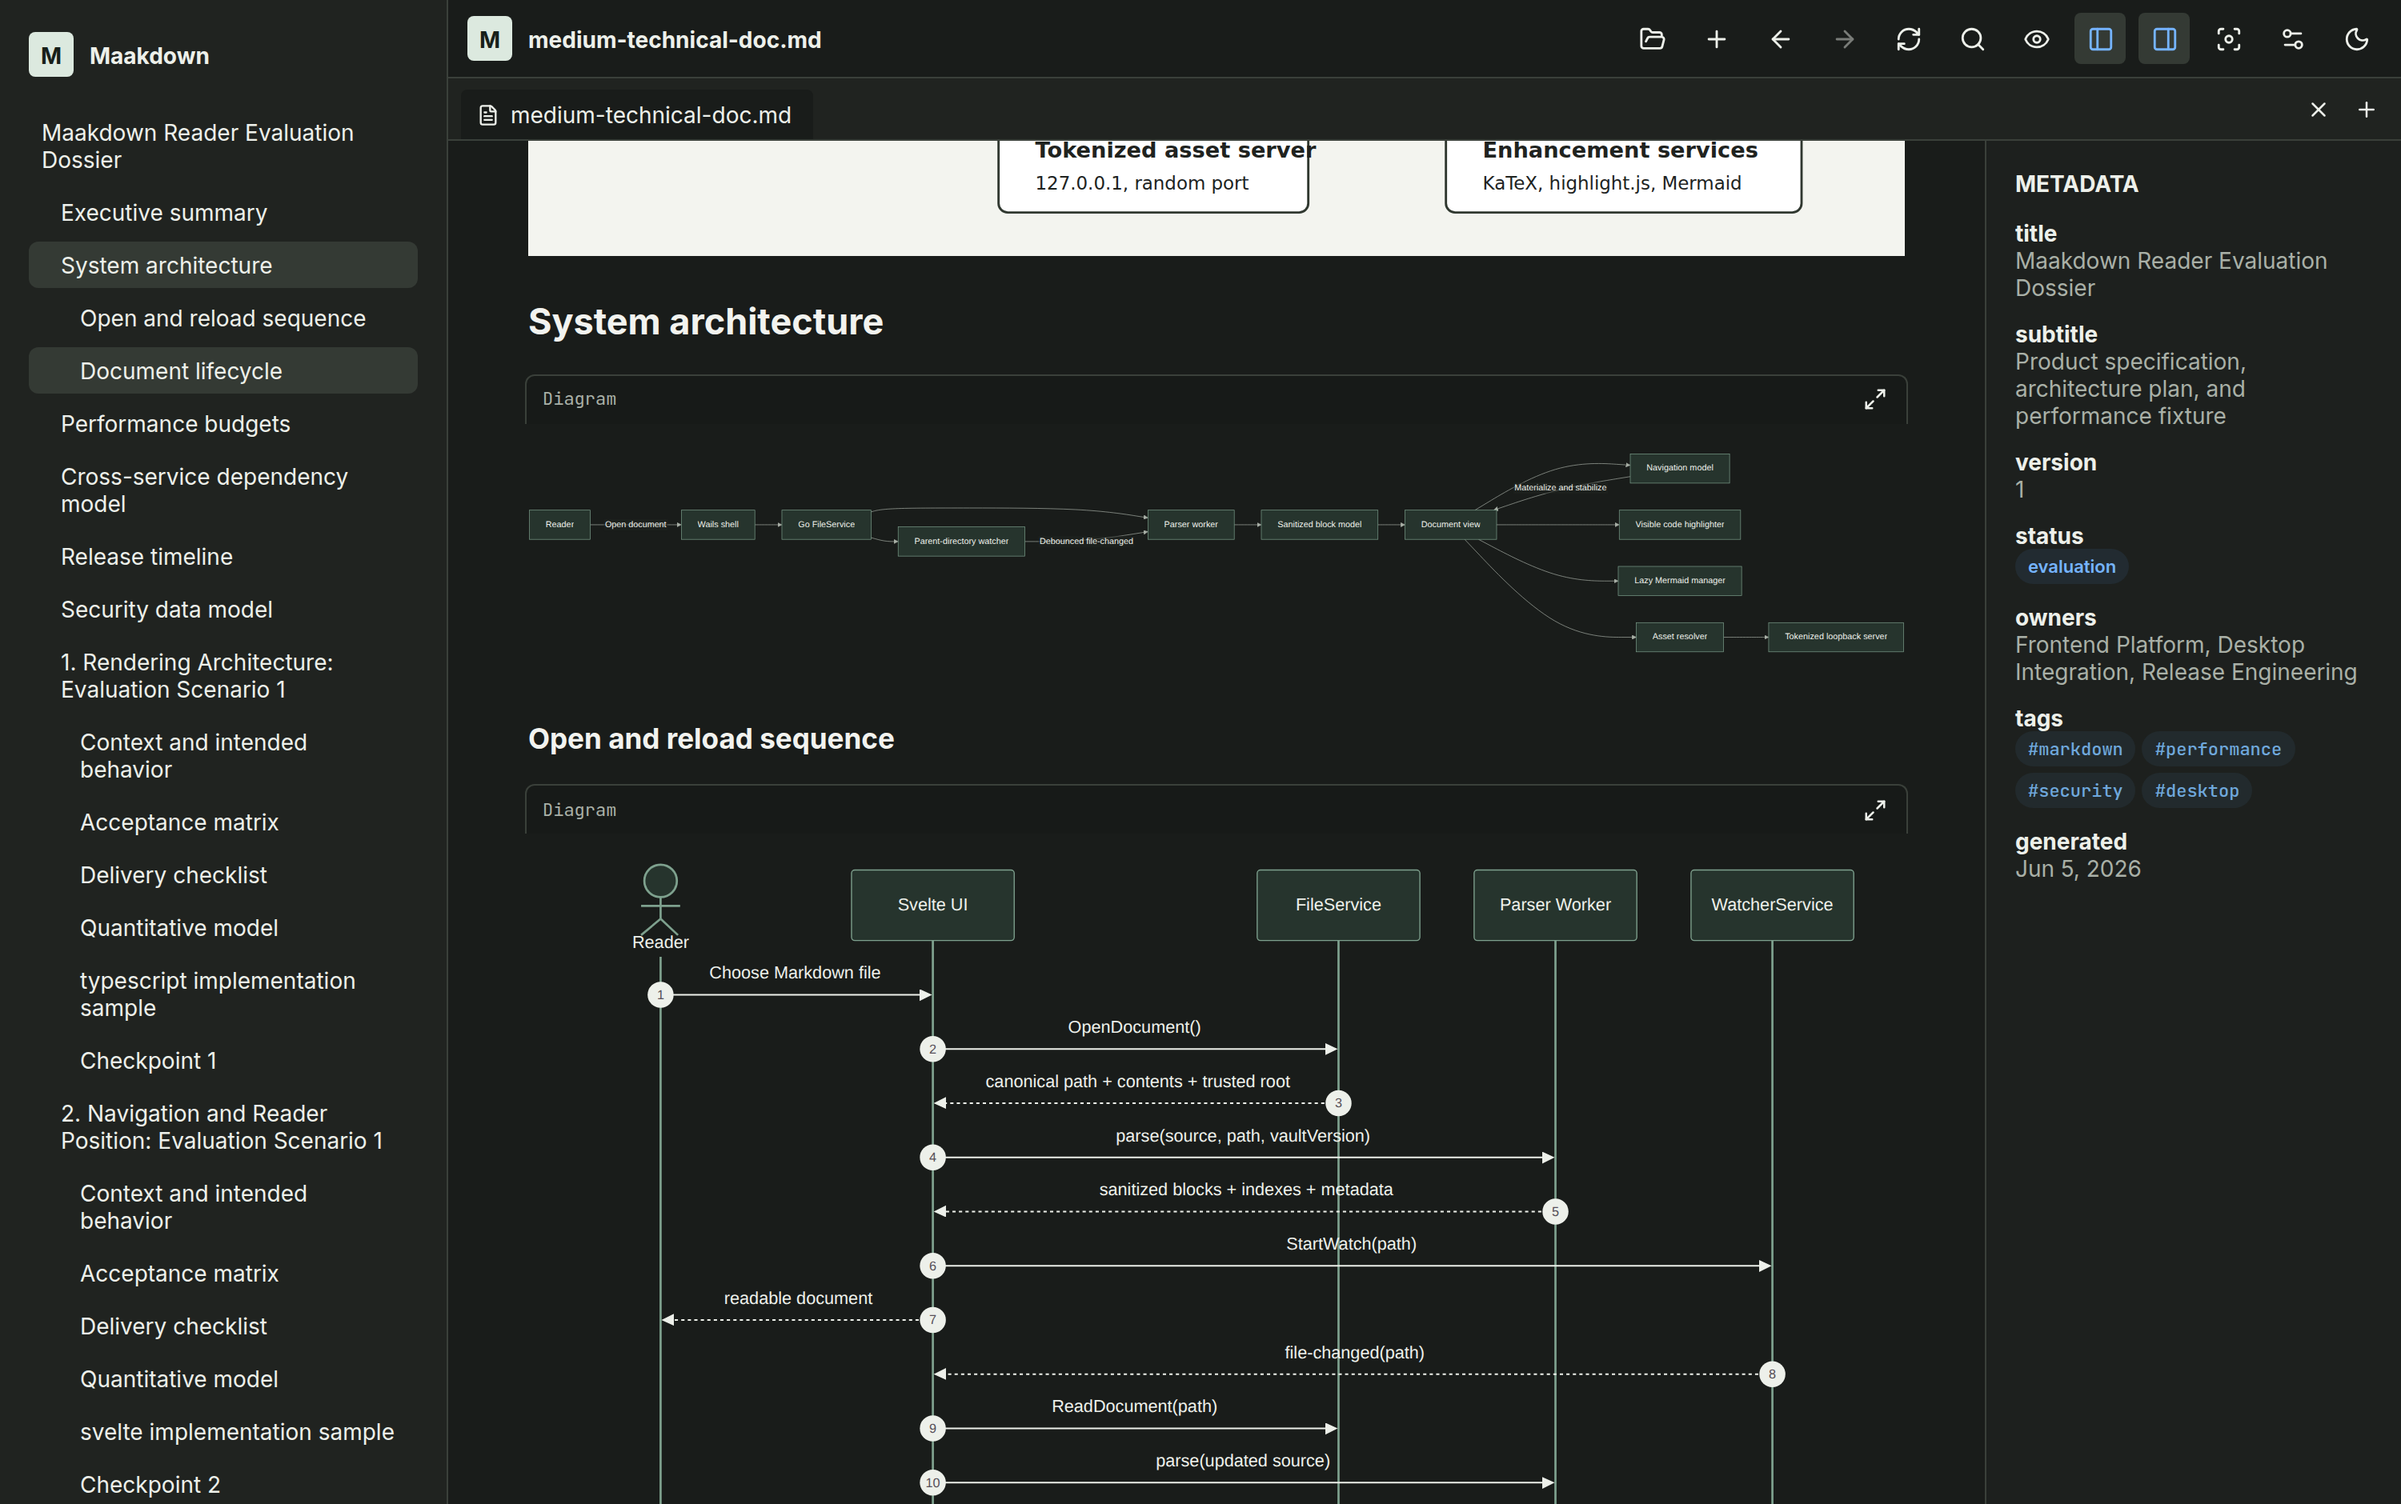
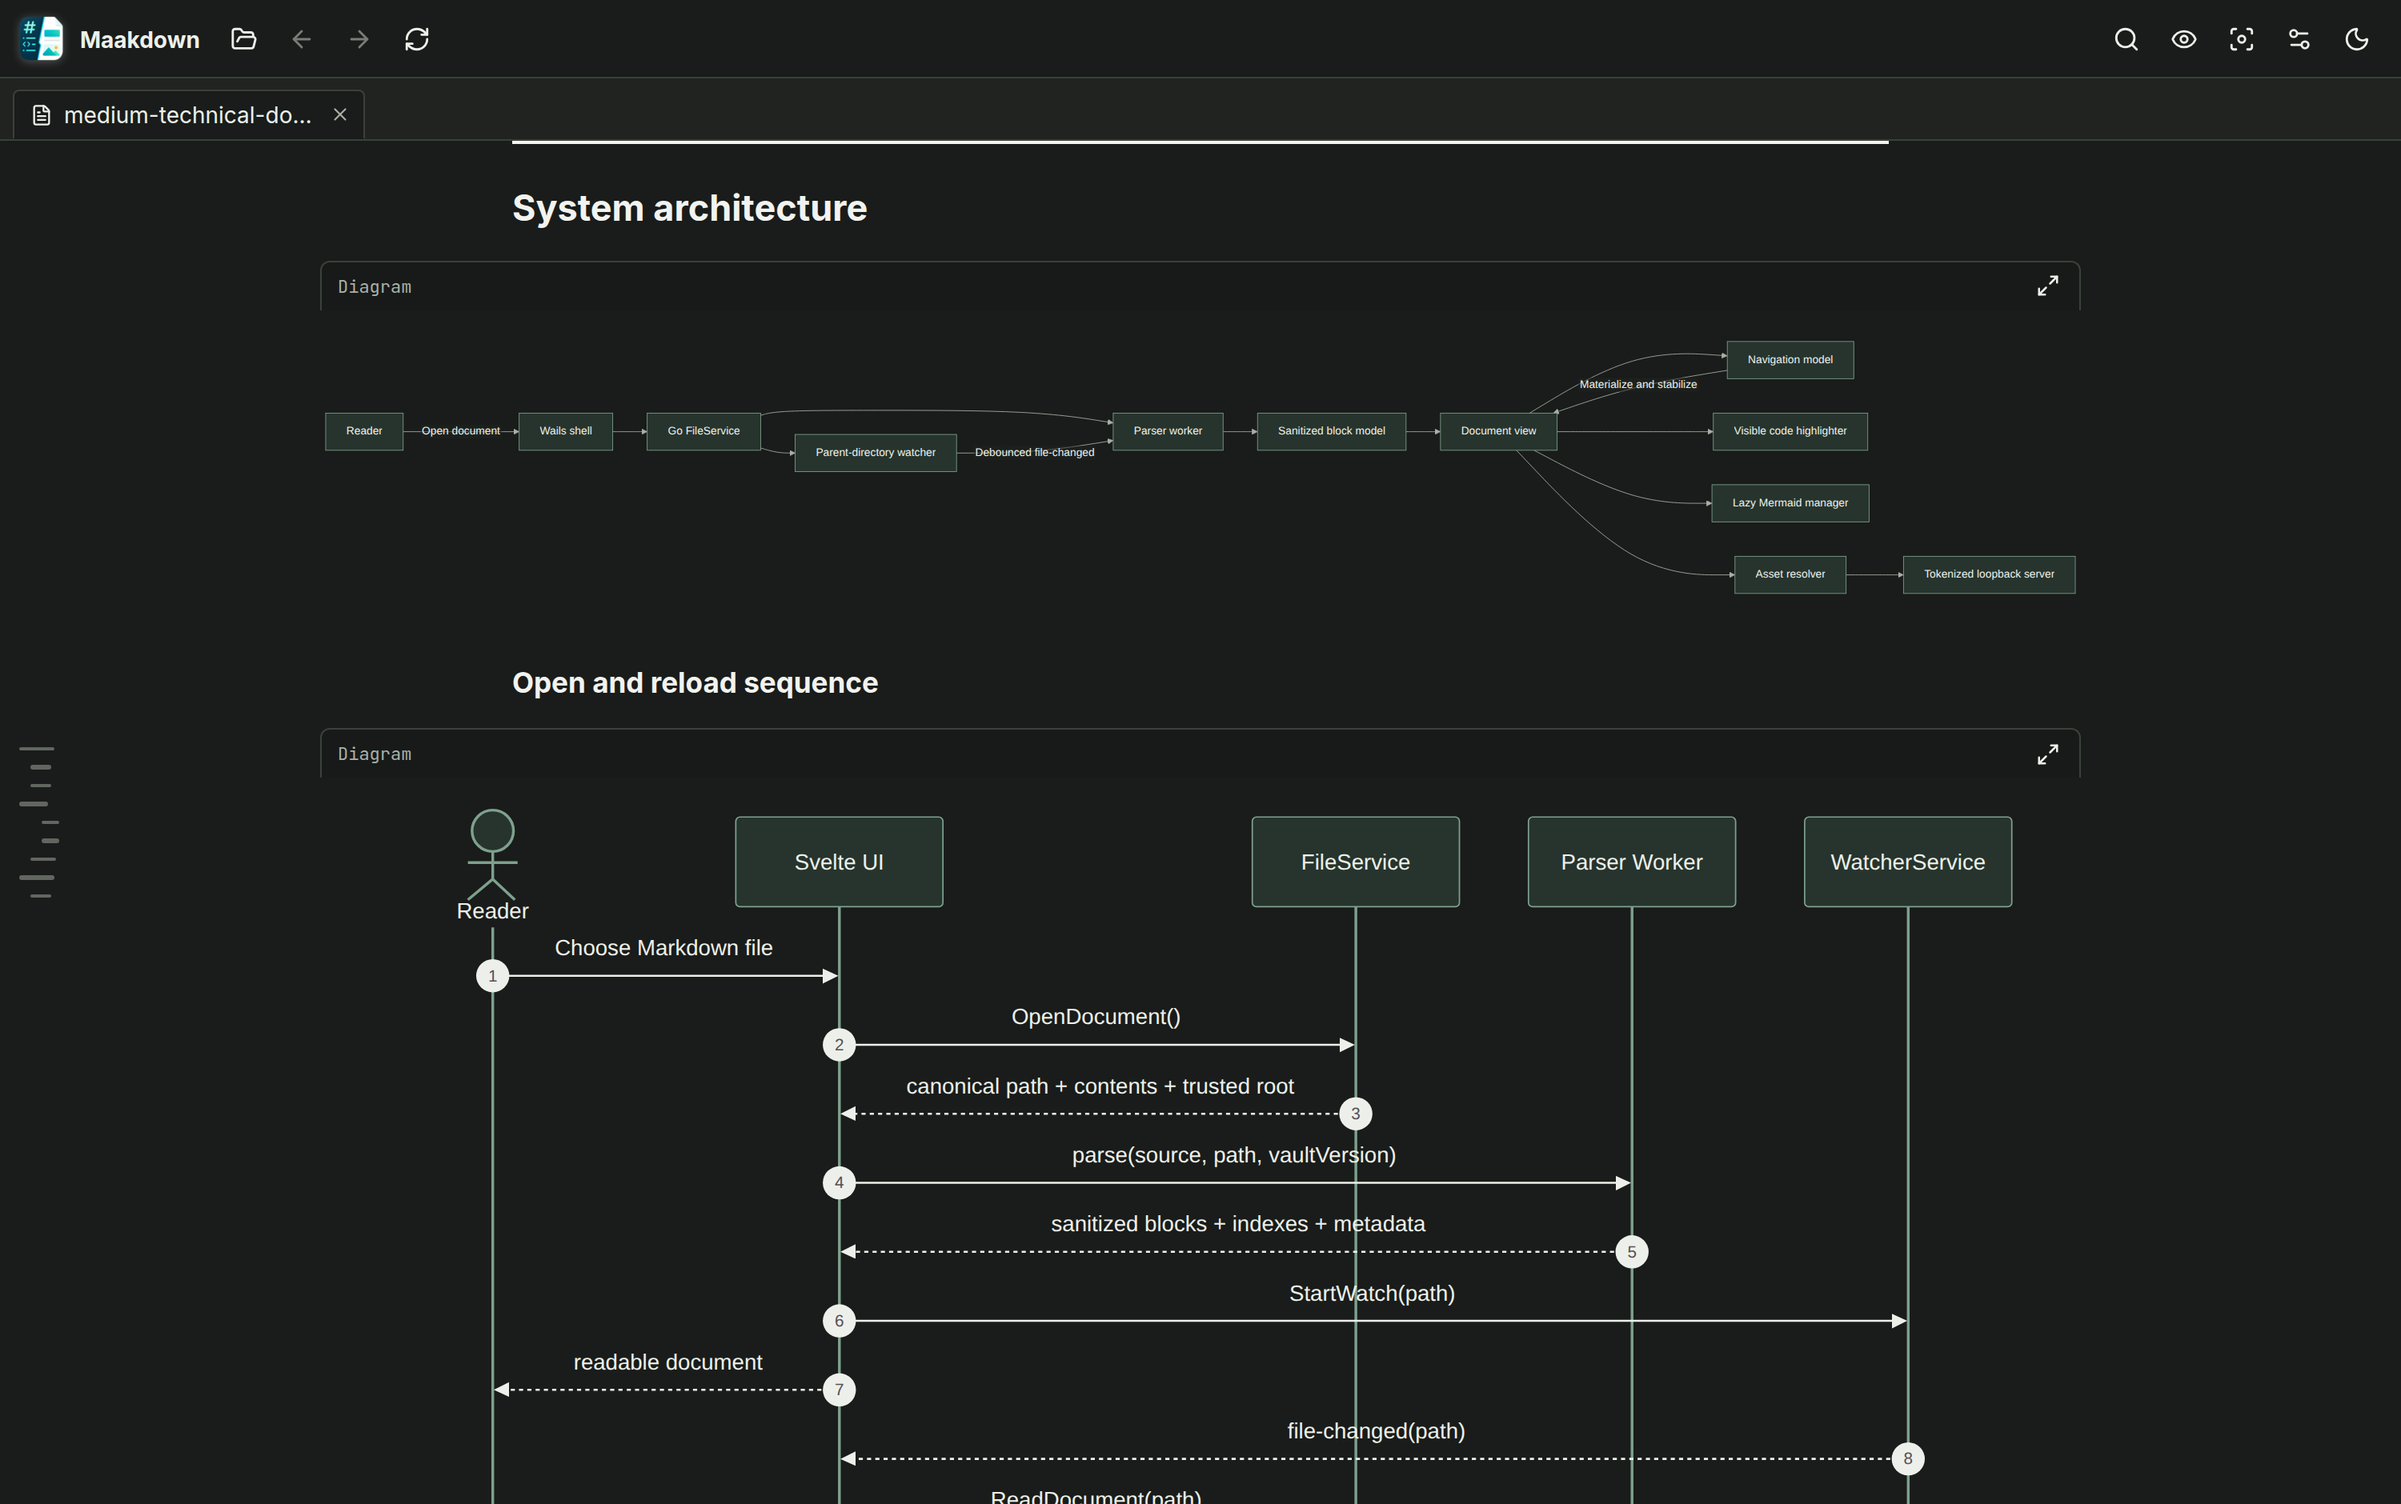
docs: refresh screenshots and README copy for the updated UI
Regenerate README screenshots against the refactored chrome (toolbar brand +
tab strip, hover outline minimap, frontmatter masthead) and update the capture
script's navigation to be scroll-based now that the persistent TOC sidebar is
gone. Align feature copy and alt text with the new outline/masthead.

diff --git a/README.md b/README.md
@@ -5,14 +5,14 @@
 **A beautiful, distraction-free desktop app for reading your Markdown.**
 
 Open any Markdown file and see it the way you meant it — clean typography, rich code, math, and
-diagrams, all in a calm reading workspace. Keep many documents open in tabs, jump around with a
-sidebar outline and search, and pick up right where you left off next time.
+diagrams, all in a calm reading workspace. Keep many documents open in tabs, jump around with the
+outline and search, and pick up right where you left off next time.
 
 Works on Windows, macOS, and Linux.
 
 <br />
 
-<img src="docs/screenshots/reading-light.png" alt="Maakdown reading view with an outline sidebar, rendered document, and metadata panel" width="900" />
+<img src="docs/screenshots/reading-light.png" alt="Maakdown reading view showing the app toolbar, open document tab, and a rendered document with its frontmatter masthead" width="900" />
 
 </div>
 
@@ -40,10 +40,10 @@ Works on Windows, macOS, and Linux.
 | **Code** | Fenced-code highlighting via highlight.js (default), with optional Shiki |
 | **Math** | Inline and block math rendered with KaTeX |
 | **Diagrams** | Mermaid fenced diagrams, lazy-loaded and rendered on viewport entry |
-| **Frontmatter** | YAML frontmatter extracted to a metadata panel, never body-rendered |
+| **Frontmatter** | YAML frontmatter surfaced as a document masthead, never body-rendered |
 | **Callouts** | GitHub / Obsidian-style callouts with a sanitized class allowlist |
 | **Images** | Local relative images resolved through a bounded loopback asset service |
-| **Navigation** | Sidebar TOC with scroll-spy, internal `#anchors`, footnotes, and per-tab history |
+| **Navigation** | Hover-revealed outline with scroll-spy, internal `#anchors`, footnotes, and per-tab history |
 | **Wikilinks** | `[[Note Name]]` resolved through a Go-built vault index |
 | **Workspace** | Tabbed documents, session restoration, recent files, and drag-and-drop |
 | **Find** | Current-document search with true match counts, next/previous, and a case-sensitive toggle |
